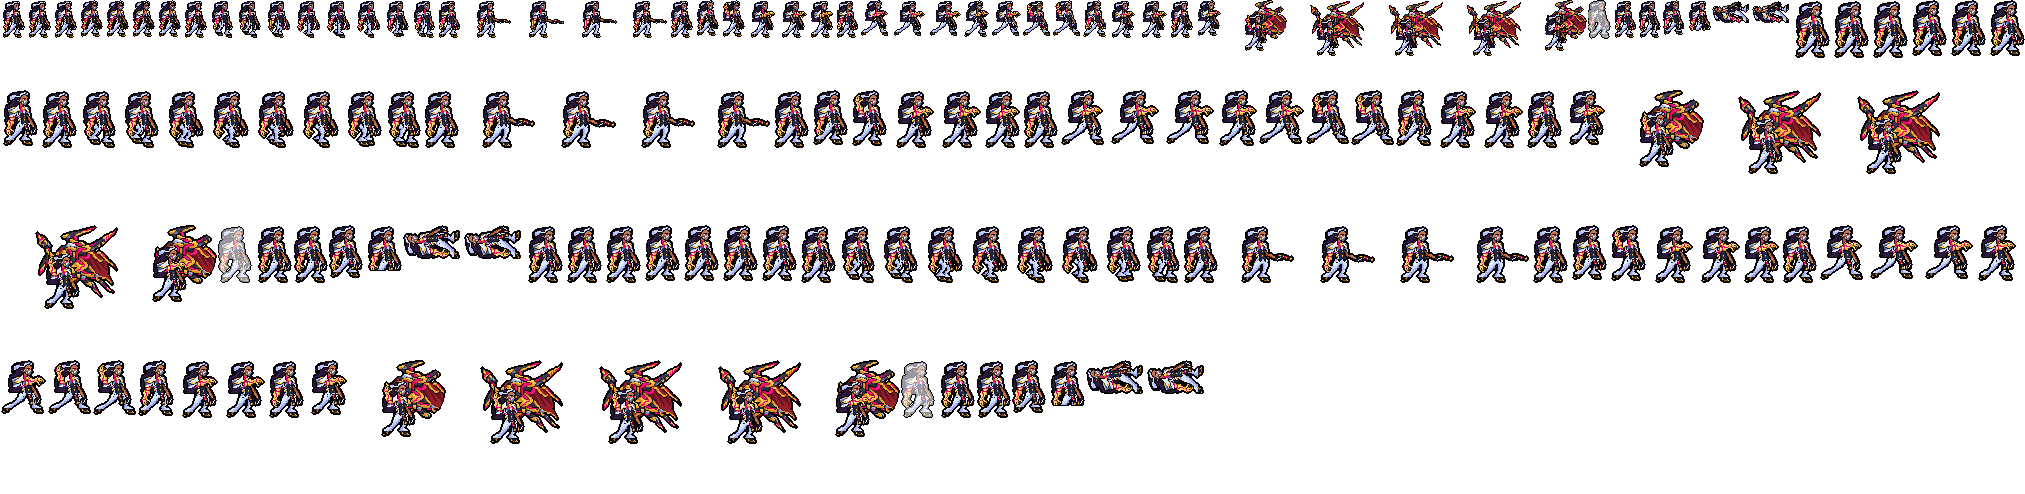
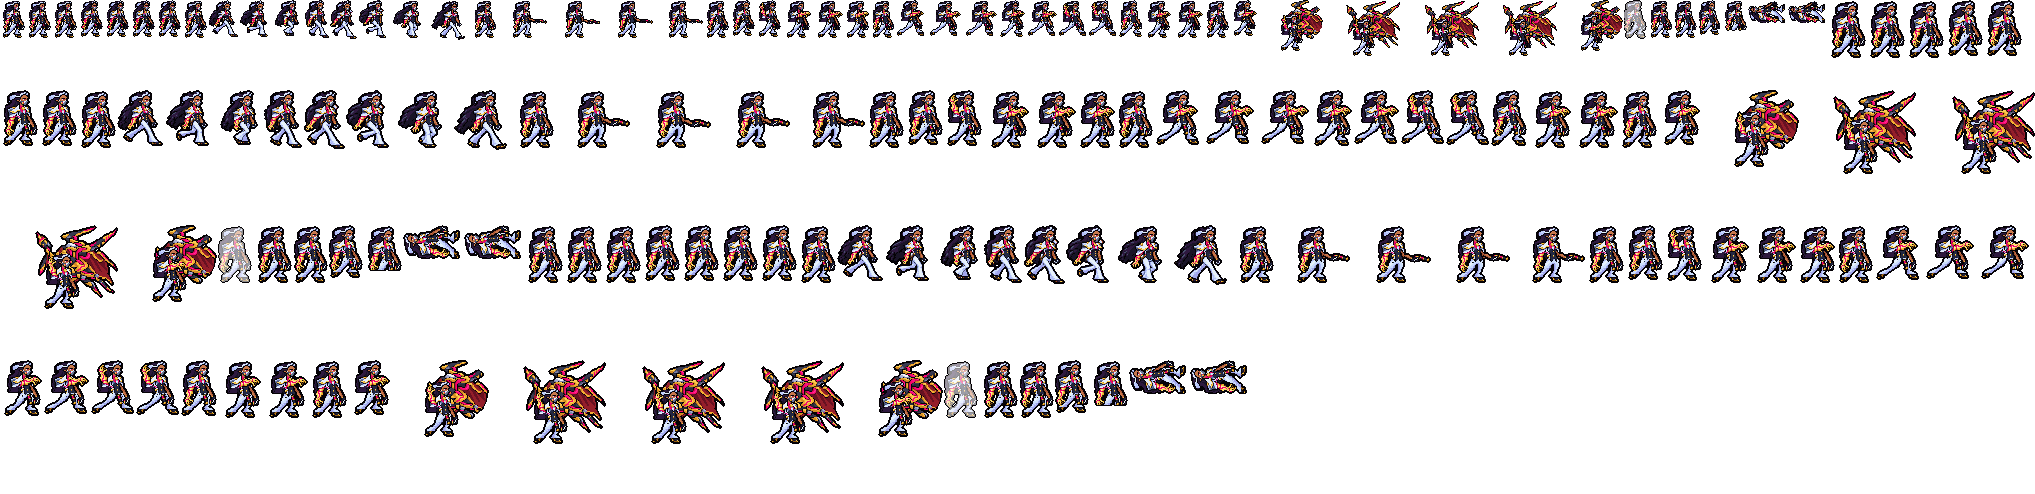
Renata: the walk from Codex's skin swap on League's own Run (import_renata_run.py: read back on its grid, the legs shortened to the design's, the design's head over every frame)

diff --git a/tools/art/rig_renata.py b/tools/art/rig_renata.py
@@ -331,11 +331,10 @@ class Frame:
 
 
 def pose(bob=0, dx=0, legs=((0, 0, 0), (0, 0, 0)), arm=None, gun=None, upf=True, lift=0, hide=(), behind=(),
-         extra=(), walk=None):
+         extra=()):
     """One frame (a Frame): the body (all but the legs) bob rows down over the legs and dx columns on, the whole
     figure lift rows up; the near / far leg (knee columns, foot columns, lift rows: see swung); arm: None (the near arm
     as drawn) or a callable drawing it (gets the canvas and the body's origin) - moved away, the hair behind it shows;
-    walk: walking legs (both the far trouser leg, the near one this many columns over: run_frames);
     gun: None (the far forearm hanging empty, the pistol tucked in at her hip) or a callable drawing the forearm with the
     pistol drawn (the attack); upf: the far upper arm drawn; hide: parts left out; behind: callables
     drawn first (under everything: the R machine); extra: callables drawn last."""
@@ -343,19 +342,17 @@ def pose(bob=0, dx=0, legs=((0, 0, 0), (0, 0, 0)), arm=None, gun=None, upf=True,
     x0, y0 = OX + dx, OY - lift
     for f in behind:
         f(can, x0, y0 + bob)
-    # the legs' tops as they stand, under everything (nothing opens between the vest and a swinging leg); walking
-    # (walk = the columns from the far hip to the near one) both legs are the far one as drawn
-    pairs = ((LEG_F, 0), (LEG_N, 0)) if walk is None else ((LEG_F, 0), (LEG_F, walk))
-    for (k, shift), name in zip(pairs, (LEG_F, LEG_N)):
-        if name in hide:
+    # the legs' tops as they stand, under everything (nothing opens between the vest and a swinging leg)
+    for k in (LEG_F, LEG_N):
+        if k in hide:
             continue
         top = leg_rows(k)[0]
-        put(can, DESIGN, (LAB == k) & (np.arange(DH)[:, None] < top + UNDERLAY), x0 - dx + shift, y0)
-    for (k, shift), spec, name in zip(pairs, (legs[1], legs[0]), (LEG_F, LEG_N)):
-        if name in hide:
+        put(can, DESIGN, (LAB == k) & (np.arange(DH)[:, None] < top + UNDERLAY), x0 - dx, y0)
+    for k, spec in ((LEG_F, legs[1]), (LEG_N, legs[0])):
+        if k in hide:
             continue
         src, m, P = swung(k, *spec)
-        put(can, src, m, x0 - dx - P + shift, y0 - P)
+        put(can, src, m, x0 - dx - P, y0 - P)
     if arm is not None:
         put(can, HAIR_FILL[0], HAIR_FILL[1], x0, y0 + bob)
     body = part(BODY) & ~part(*hide)
@@ -580,49 +577,24 @@ def breathe(k):
 
 
 RUN_MS = 133                           # League's Run: 3 cycles in 3.2 s, 1067 ms a cycle, 8 frames
-# League's run at game size (tools/lol/pose_joints.py, assets/source/renata/poses.json --tag run, game px from the
-# pivot): per frame the hips' mean y, and per leg (L = her near leg) the knee's and the foot's x from its hip and the
-# foot's height off the ground (7.8 - its y).
-LEAGUE_RUN = [  # (root y, (near knee dx, foot dx, lift), (far knee dx, foot dx, lift)), game px
-    (-13.95, (-2.9, -7.0, 7.6), (2.4, 5.0, 0.0)),
-    (-12.95, (-0.8, -7.0, 8.6), (2.9, 1.5, 0.8)),
-    (-13.15, (3.0, -1.9, 3.0), (-0.9, -3.4, 1.0)),
-    (-15.75, (3.4, 6.3, 0.2), (-2.9, -7.6, 4.4)),
-    (-13.85, (3.5, 7.5, 0.0), (-3.7, -9.1, 7.4)),
-    (-12.75, (4.5, 5.8, 1.1), (0.5, -7.1, 7.6)),
-    (-12.45, (2.2, 1.1, 1.7), (3.2, -1.0, 3.6)),
-    (-14.05, (-1.3, -4.3, 3.1), (2.4, 4.3, 0.0)),
-]
-# The user on the first review: 「走路姿势很奇怪」 - the first walk sheared her slanted near trouser leg (the A stance)
-# twelve columns to bring its boot under the hip: a fan, not a leg. Now both legs are the far trouser leg (upright in
-# the design) as drawn, each under its own hip (the near one over the far one), swung as two bones by whole-row shifts
-# (swung), the boots flat; League's foot travel at LEG_K squares a League px, the lift at LIFT_K, the near leg's step
-# back BACK_K of League's (behind her hip it hides under the hanging mechanical hand); no bob (the user: 「上下摆动」).
-LEG_K, LIFT_K, BACK_K = 0.9, 0.5, 0.6
-
-
-def _hips():
-    """Columns from the far hip's middle to the near hip's (the near trouser leg's first rows)."""
-    def mid(k):
-        top = leg_rows(k)[0]
-        xs = np.nonzero(LAB[top + 1] == k)[0]
-        return (xs.min() + xs.max()) / 2.0
-    return int(round(mid(LEG_N) - mid(LEG_F)))
+# The walk is Codex's (the user on the first review: 「走路姿势很奇怪」 - two posed walks from the design's own legs stayed
+# a jumble: both hands hang at her hips over short legs, and her near trouser leg stands slanted): League's own Run as
+# the skeleton, our idle as the skin (tools/art/pack_renata_run.py), read back and brought to the design by
+# tools/art/import_renata_run.py (the legs shortened to the design's at one fixed spacing, the design's head laid over
+# every frame). Each frame stands on the ground line with its head where the idle's head is (Codex's bob kept: the
+# head rides 1-4 rows over its idle place, League's own rise and fall).
+RUN_NPZ = os.path.join(SRC, "hd", "run.npz")
 
 
 def run_frames():
-    gap = _hips()
+    z = np.load(lp(RUN_NPZ))
+    places = z["places"]
     out = []
-    for i, (hy, n, f) in enumerate(LEAGUE_RUN):
-        def leg(t, back=1.0):
-            k = LEG_K * SCALE * (back if t[1] < 0 else 1.0)
-            return (int(round(t[0] * k)), int(round(t[1] * k)), int(round(t[2] * LIFT_K * SCALE)))
-        # the arms swing against the legs: the mechanical arm a column ahead while the near foot is behind her, the far
-        # hand a column ahead while the far foot is
-        swing = (1 if n[1] < -3 else -1) if abs(n[1]) > 3 else 0
-        far = (1 if f[1] < -3 else -1) if abs(f[1]) > 3 else 0
-        out.append((pose(dx=1, legs=(leg(n, BACK_K), leg(f)), arm=arm_at(swing) if swing else None,
-                         gun=hanging(far), walk=gap), RUN_MS))
+    for i, (dx, dy) in enumerate(places):
+        f = z[f"f{i}"]
+        can = blank()
+        stamp(can, f, OX - int(dx), SOLE - (f.shape[0] - 1))
+        out.append((Frame(can, OX, SOLE - (f.shape[0] - 1) + int(dy)), RUN_MS))
     return out
 
 

diff --git a/tools/art/import_renata_run.py b/tools/art/import_renata_run.py
@@ -1,0 +1,121 @@
+#!/usr/bin/env python3
+"""Renata's walk from Codex's skin swap (assets/source/renata/codex_run: League's own Run as the skeleton, our idle as
+the skin - tools/art/pack_renata_run.py; the user, 2026-10-17: 「codex重画的交付了 你处理一洗吧」) brought to the design.
+
+    python tools/art/import_renata_run.py [--review DIR]
+
+Codex's picture is 1717 x 916 RGB (not the pack's 1440 x 768), a 4 x 2 sheet on an uneven green, drawn on its own ~6 px
+squares, the figure 66-70 squares tall: League's proportions (its legs half again as long as ours), our head and torso.
+Per frame: the green keyed with a tolerance, the cell read back square by square on its own grid (regrid, 6 px), every
+square snapped to the design's nearest colour; the legs - the LEG_SRC rows over the soles - brought to the design's
+LEG_DST rows by whole rows taken at one fixed spacing (the same rows of every frame, counted from its soles: no
+flicker), everything over them kept as drawn; then the design's own head (hair, face, mask: rows 0..HEAD_ROWS-1 of
+the body part, never the pistol) laid over Codex's where it matches best, so the face is the idle's in every frame.
+Writes assets/source/renata/hd/run.npz: the 8 frames (RGBA, design squares) and where each one's head sits (its
+design (0, 0) in the frame), for tools/art/rig_renata.py's run_frames.
+"""
+import argparse
+import os
+import sys
+
+import numpy as np
+from PIL import Image
+
+HERE = os.path.dirname(os.path.abspath(__file__))
+ROOT = os.path.dirname(os.path.dirname(HERE))
+sys.path.insert(0, os.path.join(ROOT, ".claude", "skills", "tfm2-hero-mod", "scripts"))
+sys.path.insert(0, HERE)
+import regrid as RG  # noqa: E402
+
+SRC = os.path.join(ROOT, "assets", "source", "renata", "codex_run", "renata_run_swap.png")
+OUT = os.path.join(ROOT, "assets", "source", "renata", "hd", "run.npz")
+COLS, ROWS = 4, 2
+SQ = 6.0                 # Codex's own squares (regrid's measure)
+LEG_SRC, LEG_DST = 35, 23   # Codex's legs (waist to soles) -> the design's
+HEAD_ROWS = 13           # the design's head: hair top to the mask's lower edge
+
+
+def lp(path):
+    path = os.path.abspath(path)
+    pre = chr(92) * 2 + "?" + chr(92)
+    return pre + path if os.name == "nt" and not path.startswith(pre) else path
+
+
+def keyed_cells():
+    a = np.asarray(Image.open(lp(SRC)).convert("RGB")).astype(int)
+    H, W = a.shape[:2]
+    r, g, b = a[..., 0], a[..., 1], a[..., 2]
+    key = (g > 140) & (g > r + 60) & (g > b + 60)
+    rgba = np.dstack([a, np.where(key, 0, 255)]).astype(np.uint8)
+    rgba[key] = 0
+    cw, ch = W / COLS, H / ROWS
+    return [rgba[int(round((k // COLS) * ch)):int(round((k // COLS + 1) * ch)),
+                 int(round((k % COLS) * cw)):int(round((k % COLS + 1) * cw))].copy() for k in range(COLS * ROWS)]
+
+
+def read_back(cell, pal):
+    d, _, _ = RG.regrid(cell, SQ)
+    d[..., 3] = np.where(d[..., 3] >= 128, 255, 0)
+    op = d[..., 3] > 0
+    near = np.argmin(((d[..., :3].astype(int)[..., None, :] - pal[None, None]) ** 2).sum(-1), -1)
+    d[op, :3] = pal[near[op]]
+    d[~op] = 0
+    ys, xs = np.nonzero(op)
+    return d[ys.min():ys.max() + 1, xs.min():xs.max() + 1]
+
+
+def shorten(d):
+    """The LEG_SRC rows over the soles brought to LEG_DST by whole rows at one spacing (counted from the soles)."""
+    top = d.shape[0] - LEG_SRC
+    rows = [top + int(np.floor((i + 0.5) * LEG_SRC / LEG_DST)) for i in range(LEG_DST)]
+    return np.concatenate([d[:top], d[rows]], 0)
+
+
+def head_place(d, head, hm):
+    """Where the design head matches the frame best: (squares matched, dx, dy) of the head's (0, 0)."""
+    ys, xs = np.nonzero(hm)
+    best = (-1, 0, 0)
+    for dy in range(-3, 7):
+        for dx in range(-8, d.shape[1] - head.shape[1] + 9):
+            ty, tx = ys + dy, xs + dx
+            ok = (ty >= 0) & (ty < d.shape[0]) & (tx >= 0) & (tx < d.shape[1])
+            same = np.all(d[ty[ok], tx[ok], :3] == head[ys[ok], xs[ok], :3], -1) & (d[ty[ok], tx[ok], 3] > 0)
+            n = int(same.sum())
+            if n > best[0]:
+                best = (n, dx, dy)
+    return best
+
+
+def build():
+    import rig_renata as R
+    D = R.DESIGN
+    pal = np.unique(D[D[..., 3] > 0][:, :3], axis=0).astype(int)
+    hm = (R.LAB == R.BODY) & (np.arange(R.DH)[:, None] < HEAD_ROWS) & (D[..., 3] > 0)
+    head = np.zeros_like(D)
+    head[hm] = D[hm]
+    frames, places = [], []
+    for cell in keyed_cells():
+        f = shorten(read_back(cell, pal))
+        n, dx, dy = head_place(f, head, hm)
+        # the design head over Codex's (its squares where the head mask has them)
+        ys, xs = np.nonzero(hm)
+        ty, tx = ys + dy, xs + dx
+        ok = (ty >= 0) & (ty < f.shape[0]) & (tx >= 0) & (tx < f.shape[1])
+        f[ty[ok], tx[ok]] = head[ys[ok], xs[ok]]
+        frames.append(f)
+        places.append((dx, dy))
+        print(f"frame {len(frames)}: {f.shape[1]} x {f.shape[0]} squares, head matched {n} of {int(hm.sum())} at ({dx}, {dy})")
+    return frames, places
+
+
+def main():
+    ap = argparse.ArgumentParser()
+    ap.add_argument("--review")
+    a = ap.parse_args()
+    frames, places = build()
+    np.savez_compressed(lp(OUT), places=np.array(places), **{f"f{i}": f for i, f in enumerate(frames)})
+    print("written", OUT)
+
+
+if __name__ == "__main__":
+    main()

diff --git a/assets/source/renata/codex_run/HANDOFF.md b/assets/source/renata/codex_run/HANDOFF.md
@@ -1,0 +1,26 @@
+# 烈娜塔走路八帧重画
+
+日期：2026-10-17。
+
+## 交付文件
+
+- renata_run_swap.png：最终八帧走路造型图，4列×2行，从左到右、从上到下。
+- raw/renata_run_swap.png：image_gen 原始最终输出，与交付 PNG 逐字节相同。
+- raw/renata_run_swap-first.png：第一张生成结果。
+- generation-prompts.txt：主重画实际提示词。
+- background-repair-prompt.txt：背景定向修正实际提示词。
+- validation.json：实际画布和颜色检查。
+
+只使用新包中的两张图片作为参考，使用内置 image_gen 重画，再进行一次背景修正。没有程序逐格重绘、缩放或抠图。
+
+## 已检查
+
+图中有8个完整角色，保持4×2动作顺序，朝右走路，有伸腿、后腿弯膝和交叉过步的不同姿势。外观按定稿重画，包含黑紫长发、银蓝挑染、银色面罩、白金短披肩、藏青马甲、白色喇叭裤、黑金靴、近侧金色机械臂及远侧黑手套。手中没有举枪。实际骨架、摆臂幅度、帧间体型和头身比例是模型近似重画，未逐格保证一致；枪套细节仍需游戏尺寸下复核。
+
+## 未达到的精确规格
+
+生成器实际输出1717×916 RGB，未遵守参考图1440×768；1717不能被4整除，因此不能直接按4个等宽整数格无损切帧。脚底位置与原参考并非逐像素一致。
+
+已请求纯色#00FF00背景并尝试定向修正，但最终背景仍有绿色色差，只有41个像素精确等于#00FF00。应使用容差抠色，不能直接仅移除精确#00FF00。轮廓也有细小混色，不是严格无抗锯齿的统一逻辑像素网格。
+
+本文件是走路八帧重画稿，尚非通过精确规格验收、可直接导入的最终精灵表。后续仍需规范画布、切帧锚点、像素网格和背景；本轮未修改游戏项目。
